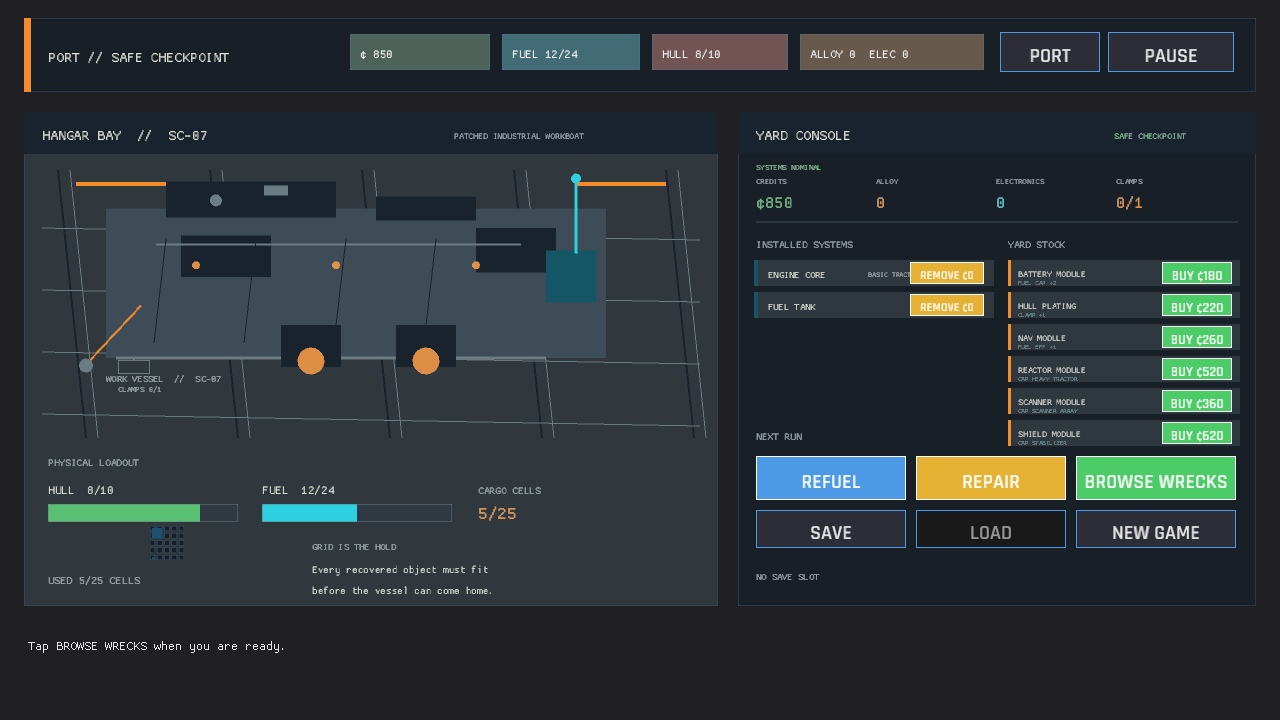
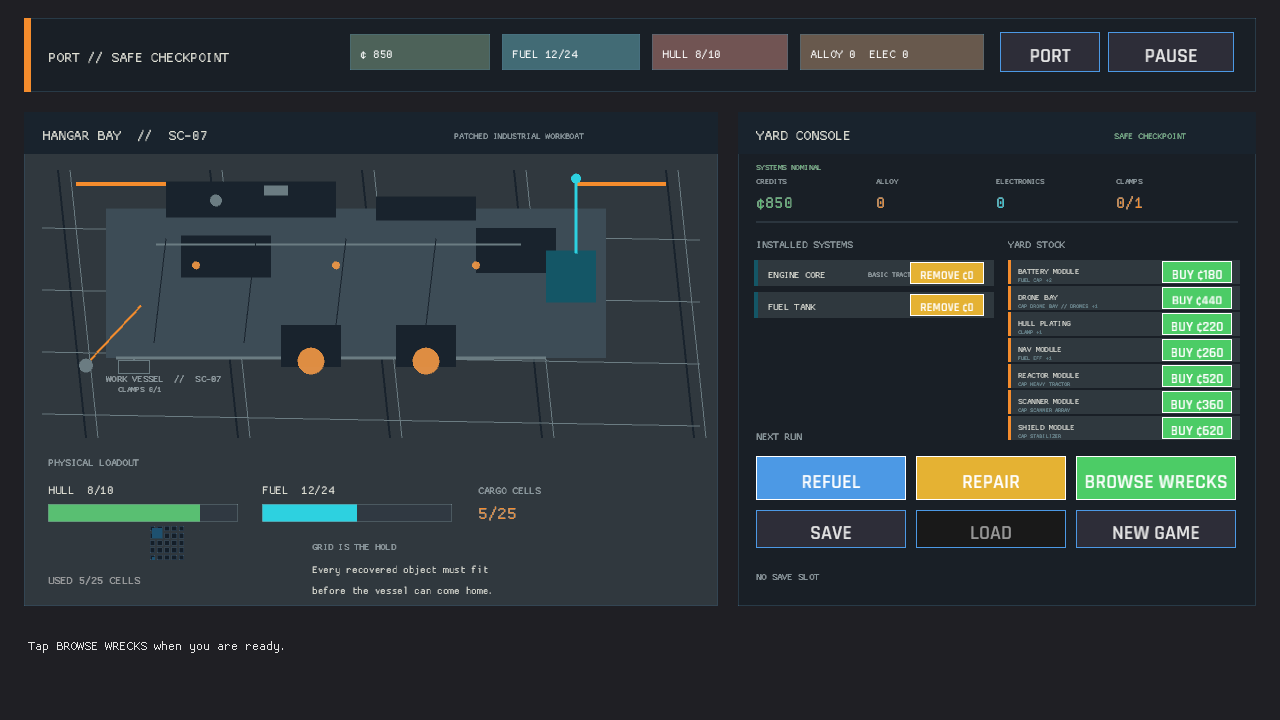
The yard packs the expanded drone catalog into a clean stack (stock panel layout)
Adjusted stock row spacing and type sizing so the seventh upgrade remains fully visible without colliding with the Port action controls, then refreshed the Port verification capture.

Changed region(s): [[0.7812, 0.3667, 0.9688, 0.6417]]

diff --git a/src/ui/port_panel.rs b/src/ui/port_panel.rs
@@ -358,24 +358,24 @@ fn draw_module_manifest(ctx: &UiContext<'_>, console: Rect, actions: &mut Vec<Ui
     for (index, (_, module)) in stock.iter().enumerate() {
         let row = Rect::new(
             console.x + 270.0,
-            console.y + 148.0 + index as f32 * 32.0,
+            console.y + 148.0 + index as f32 * 26.0,
             232.0,
-            26.0,
+            24.0,
         );
         draw_rectangle(row.x, row.y, row.w, row.h, visual_theme::panel_soft());
         draw_rectangle(row.x, row.y, 3.0, row.h, visual_theme::amber());
         draw_text(
             &module.display_name.to_uppercase(),
             row.x + 10.0,
-            row.y + 17.0,
-            11.0,
+            row.y + 14.0,
+            10.0,
             visual_theme::text(),
         );
         draw_text(
             &module_stock_detail(module),
             row.x + 10.0,
-            row.y + 25.0,
-            8.0,
+            row.y + 22.0,
+            7.0,
             visual_theme::cyan_dim(),
         );
         let fits = ctx
@@ -394,7 +394,7 @@ fn draw_module_manifest(ctx: &UiContext<'_>, console: Rect, actions: &mut Vec<Ui
         };
         if button(
             ctx,
-            Rect::new(row.right() - 78.0, row.y + 2.0, 70.0, 22.0),
+            Rect::new(row.right() - 78.0, row.y + 1.0, 70.0, 22.0),
             &buy_label,
             enabled,
             ButtonTone::Positive,
